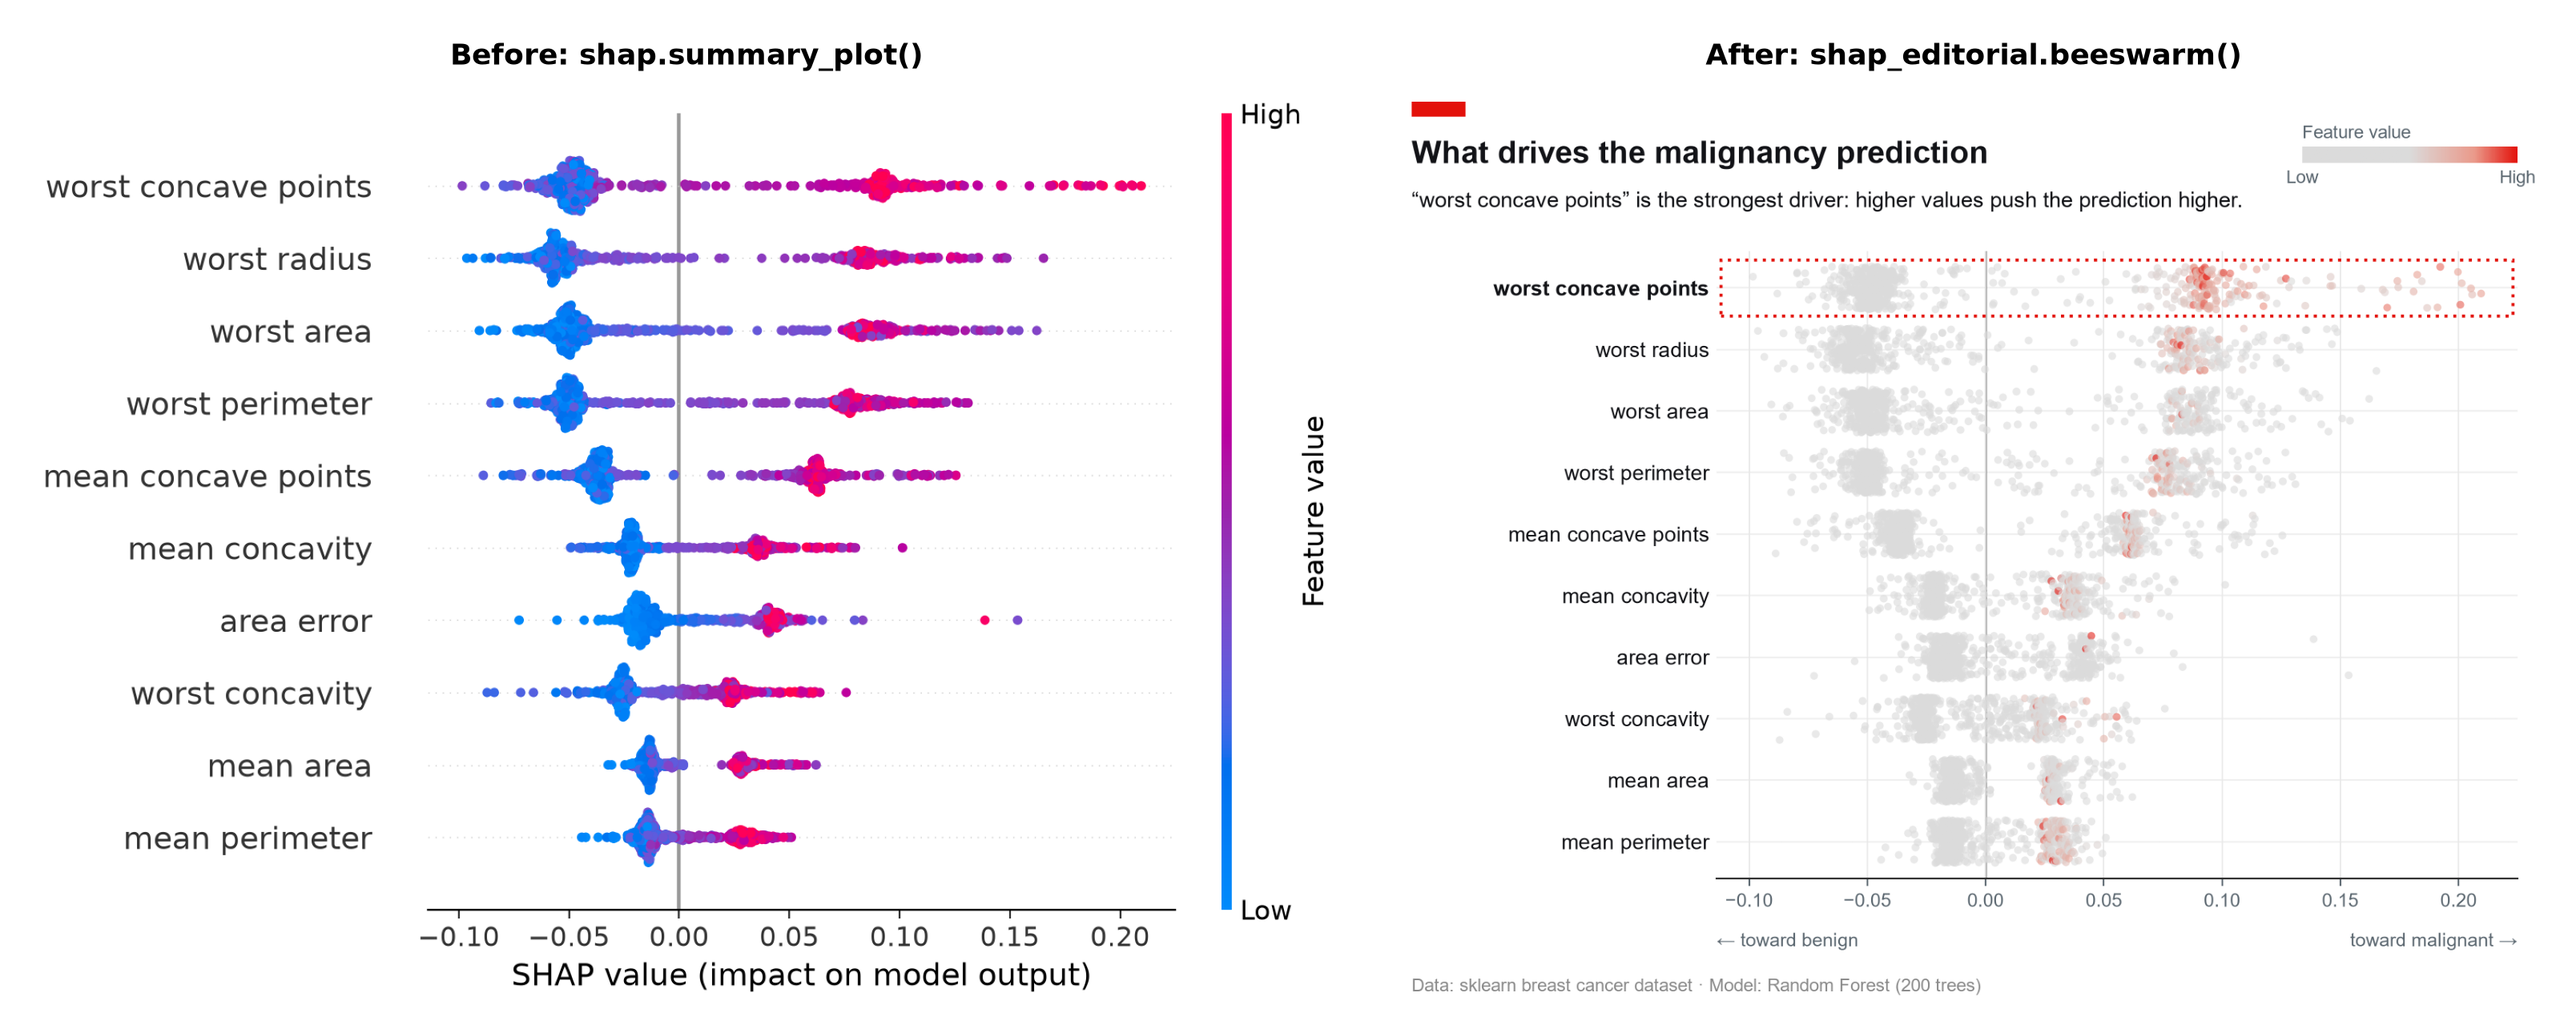
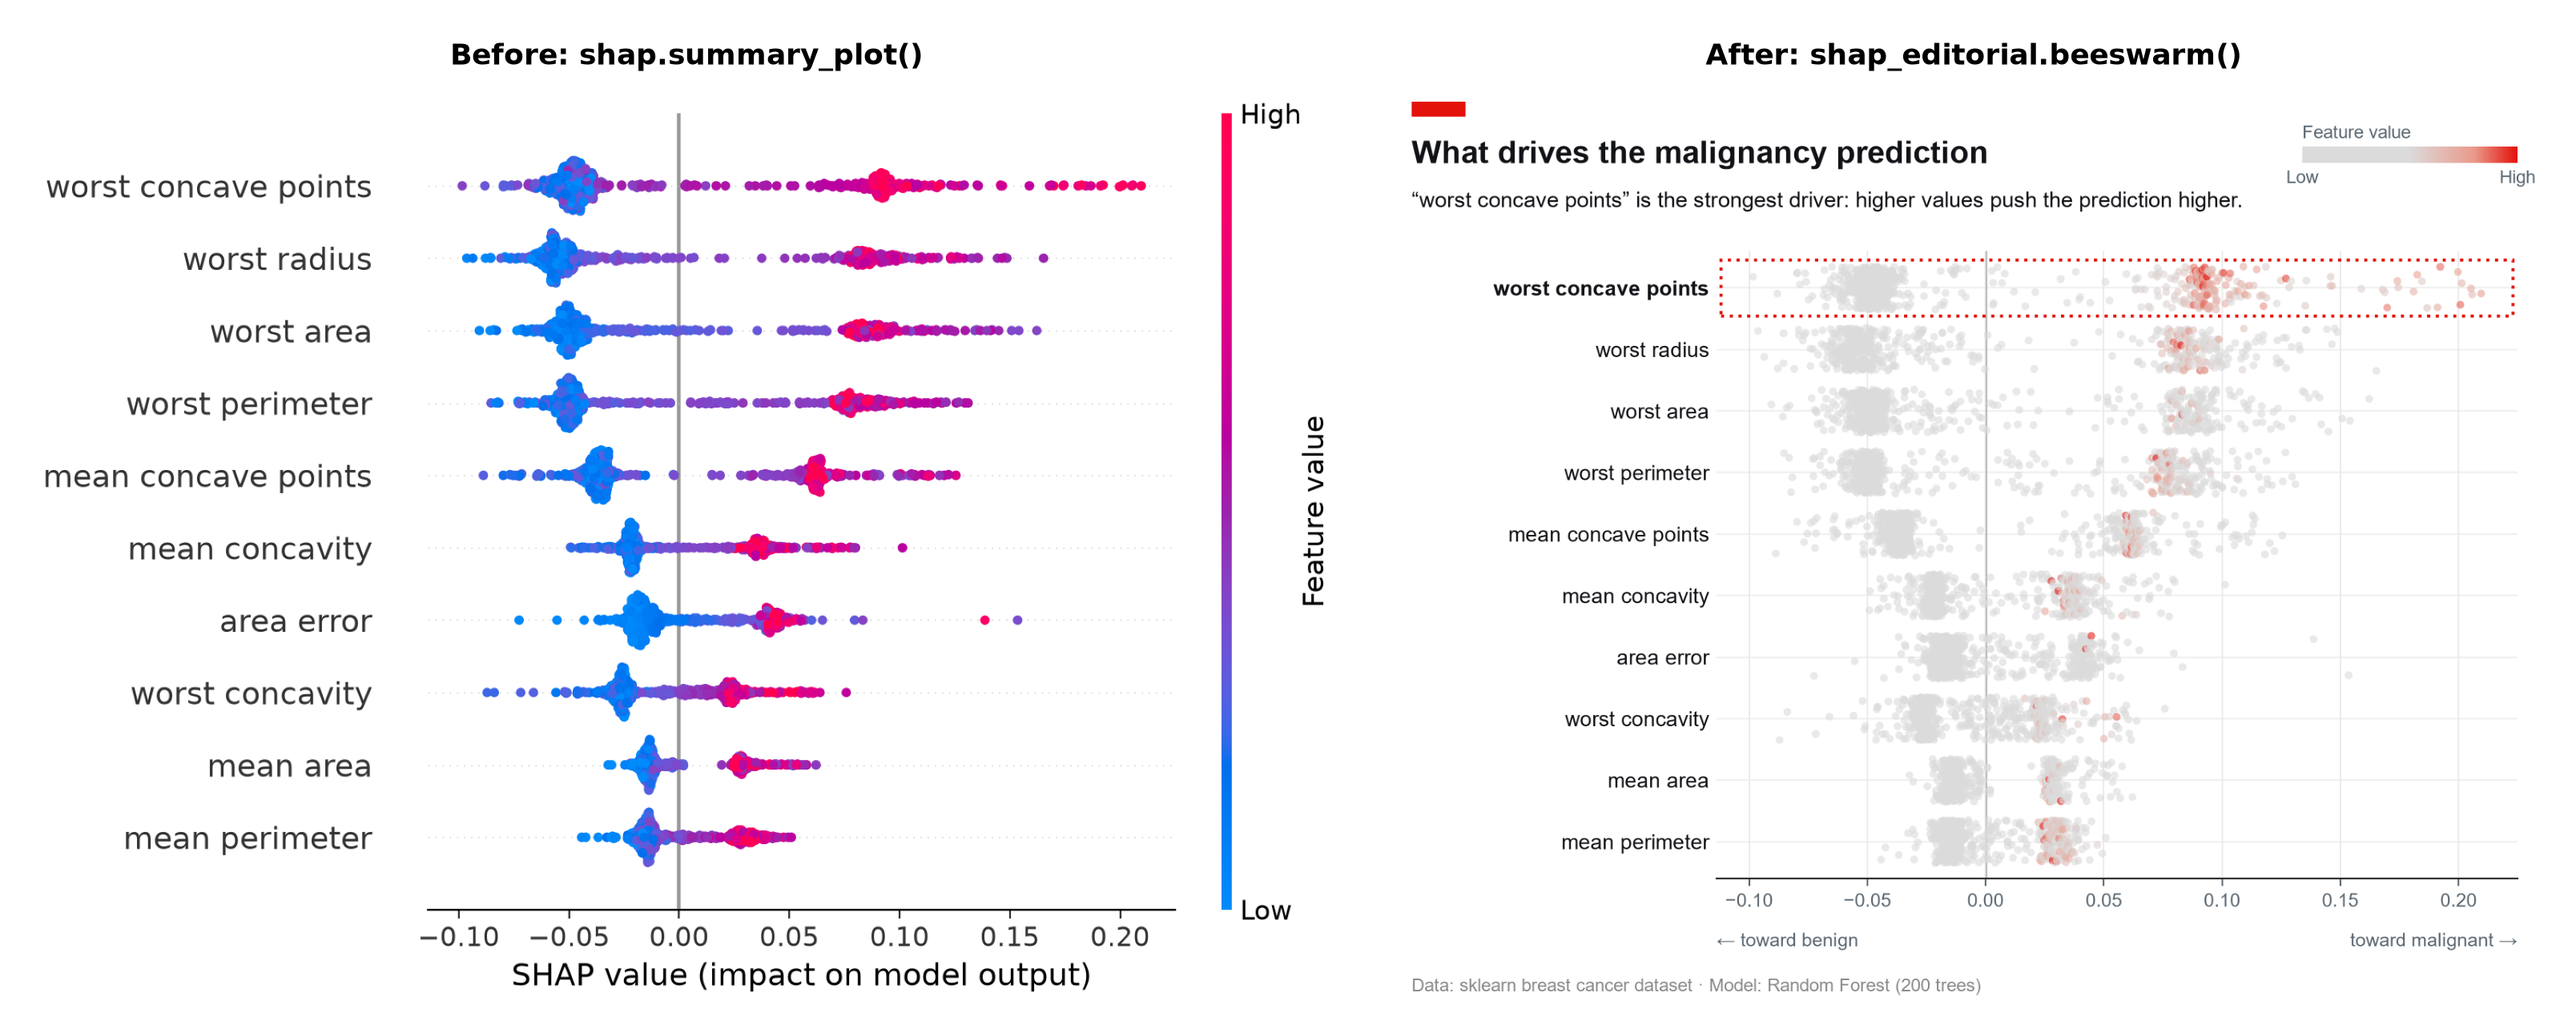
Regenerate dist

diff --git a/src/shap_editorial/__init__.py b/src/shap_editorial/__init__.py
@@ -7,7 +7,7 @@ from ._theme import set_theme
 from ._utils import ShapEditorialError
 from ._waterfall import waterfall
 
-__version__ = "0.1.1"
+__version__ = "0.1.0"
 __all__ = [
     "beeswarm",
     "waterfall",

diff --git a/README.md b/README.md
@@ -98,24 +98,26 @@ The same SHAP output, drawn by SHAP's default plot (left) and by
 
 ## Install
 
-Not yet on PyPI - install from source. Using [uv](https://docs.astral.sh/uv/)
-(recommended):
-
 ```bash
-git clone https://github.com/nishantnayar/shap-editorial.git
-cd shap-editorial
-uv sync --extra dev
+pip install shap-editorial
 ```
 
-Or with pip:
+Or with [uv](https://docs.astral.sh/uv/):
 
 ```bash
-pip install -e ".[dev]"          # core + test tooling
-pip install -e ".[example]"      # adds shap + scikit-learn for the demo script
+uv add shap-editorial
 ```
 
 **Runtime dependencies are only `matplotlib` and `numpy`.** `shap` itself is
 *not* required to use this package - input is duck-typed (see below).
+
+For local development from a clone:
+
+```bash
+uv sync --extra dev              # core + test tooling
+uv sync --extra example          # adds shap + scikit-learn for the demos
+# or: pip install -e ".[dev,example]"
+```
 
 ## Quickstart
 
@@ -240,7 +242,7 @@ state your framing explicitly - it's the clearest guard against this.
 - [x] `waterfall()` - single-prediction explanation
 - [x] `bar()` - global feature-importance bar chart
 - [x] `scatter()` - single-feature dependence plot
-- [ ] First PyPI release (`v0.1`)
+- [x] First PyPI release (`v0.1.0`)
 
 **Out of scope** (by design): real-time model monitoring, drift/bias
 detection, new SHAP computation methods, and regulatory/compliance outputs.
